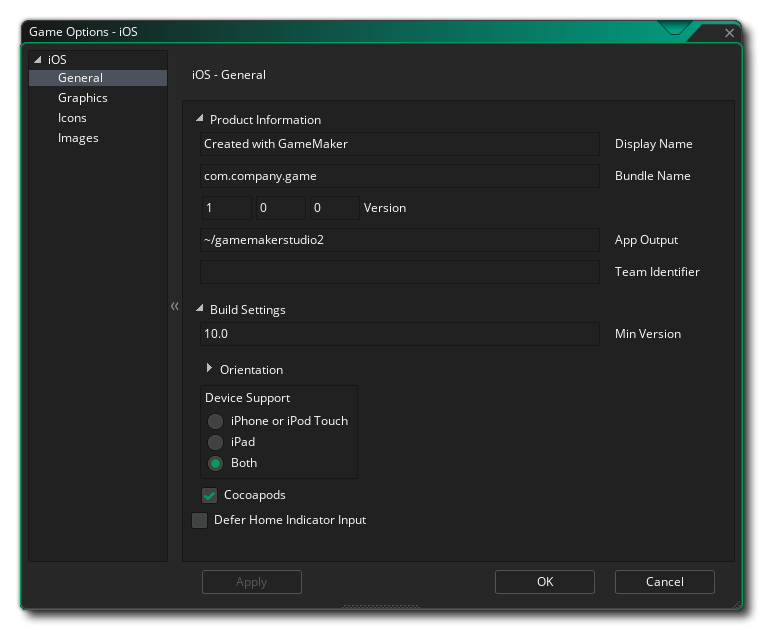
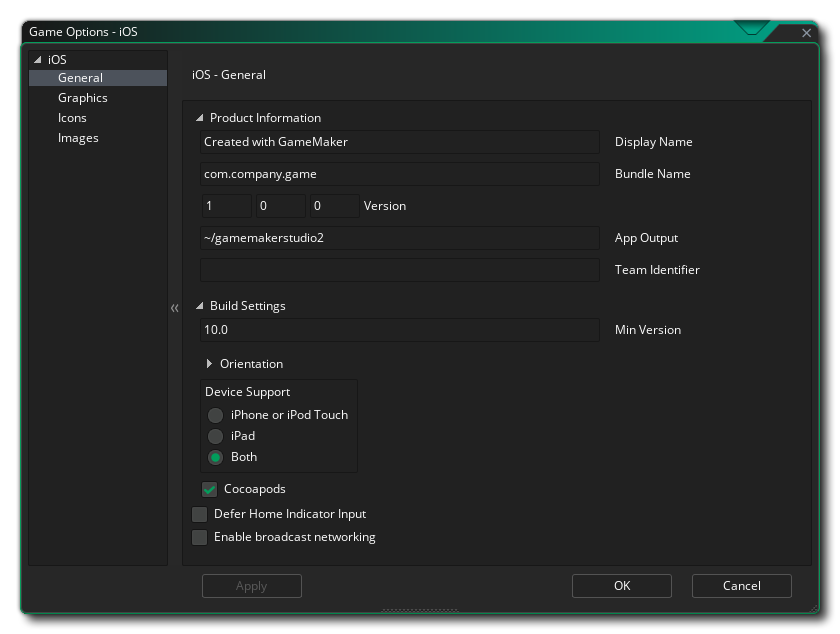
[Feature][iOS/tvOS] Add multicast entitlement when broadcasts are used YoYoGames/GameMaker-Bugs#2027 * Updated screenshot on iOS Game Options page, added new option & description * Changed RH snippet to explain the change

diff --git a/Manual/contents/Settings/Game_Options/iOS.htm b/Manual/contents/Settings/Game_Options/iOS.htm
@@ -4,7 +4,7 @@
 <head>
   <meta http-equiv="Content-Type" content="text/html; charset=utf-8" />
   <title>iOS</title>
-  <meta name="generator" content="Adobe RoboHelp 2020" />
+  <meta name="generator" content="Adobe RoboHelp 2022" />
   <link rel="stylesheet" href="../../assets/css/default.css" type="text/css" />
   <script src="../../assets/scripts/main_script.js" type="module"></script>
   <meta name="rh-authors" content="Mark Alexander" />
@@ -42,8 +42,8 @@
     <li><a href="https://help.yoyogames.com/hc/en-us/articles/360008958858">iOS and tvOS: Using Cocoa Pods</a></li>
   </ul>
   <div data-conref="../../assets/snippets/Note_important_CocoaPods.hts"> </div>
-  <p>Finally, you can check or un-check the option to <strong>Defer Home Indicator Output</strong>. When this is checked, the home bar will always be shown at a low alpha, and the first swipe wakes the bar and the second swipe takes you home. If the option is un-checked, then the bar is not shown in-game, but the first edge swipe will take you home. Default is un-checked.</p>
-  <p> </p>
+  <p>You can check or uncheck the option to <strong>Defer Home Indicator Output</strong>. When this is checked, the home bar will always be shown at a low alpha, and the first swipe wakes the bar and the second swipe takes you home. If the option is unchecked, then the bar is not shown in-game, but the first edge swipe will take you home. Default is unchecked.</p>
+  <p>Lastly, you can <strong id="enable_broadcast_networking">Enable broadcast networking</strong>. When enabled, <span data-keyref="GameMaker Name">GameMaker</span> will add the multicast entitlement (<a href="https://developer.apple.com/documentation/bundleresources/entitlements/com_apple_developer_networking_multicast">com.apple.developer.networking.multicast</a>) to broadcast or multicast messages that you send in your game.</p>
   <h2>Graphics</h2>
   <p><img alt="iOS Graphics Options" class="center" src="../../assets/Images/Settings/iOS_Graphics_Options.png" />Here you can change the following details related to how your game will be displayed, with the following options available:</p>
   <ul class="colour">

diff --git a/Manual/contents/GameMaker_Language/GML_Reference/Networking/network_send_broadcast.htm b/Manual/contents/GameMaker_Language/GML_Reference/Networking/network_send_broadcast.htm
@@ -31,29 +31,29 @@
       </tr>
       <tr>
         <td>socket</td>
-        <td><span data-keyref="Type_ID_Network_Socket"><a href="../../../../GameMaker_Language/GML_Reference/Networking/network_create_socket.htm" target="_blank">Network Socket ID</a></span></td>
+        <td><span data-keyref="Type_ID_Network_Socket"><a href="network_create_socket.htm" target="_blank">Network Socket ID</a></span></td>
         <td>The id of the socket to use.</td>
       </tr>
       <tr>
         <td>port</td>
-        <td><span data-keyref="Type_Real"><a href="../../../../GameMaker_Language/GML_Overview/Data_Types.htm" target="_blank">Real</a></span></td>
+        <td><span data-keyref="Type_Real"><a href="../../GML_Overview/Data_Types.htm" target="_blank">Real</a></span></td>
         <td>The port that the server will use.</td>
       </tr>
       <tr>
         <td>bufferid</td>
-        <td><span data-keyref="Type_ID_Buffer"><a href="../../../../GameMaker_Language/GML_Reference/Buffers/buffer_create.htm" target="_blank">Buffer</a></span></td>
+        <td><span data-keyref="Type_ID_Buffer"><a href="../Buffers/buffer_create.htm" target="_blank">Buffer</a></span></td>
         <td>The buffer to get the data from.</td>
       </tr>
       <tr>
         <td>size</td>
-        <td><span data-keyref="Type_Real"><a href="../../../../GameMaker_Language/GML_Overview/Data_Types.htm" target="_blank">Real</a></span></td>
+        <td><span data-keyref="Type_Real"><a href="../../GML_Overview/Data_Types.htm" target="_blank">Real</a></span></td>
         <td>The size (in bytes) of the data.</td>
       </tr>
     </tbody>
   </table>
   <p> </p>
   <h4>Returns:</h4>
-  <p class="code"><span data-keyref="Type_Real"><a href="../../../../GameMaker_Language/GML_Overview/Data_Types.htm" target="_blank">Real</a></span></p>
+  <p class="code"><span data-keyref="Type_Real"><a href="../../GML_Overview/Data_Types.htm" target="_blank">Real</a></span></p>
   <p> </p>
   <h4>Example:</h4>
   <p class="code">buffer_seek(broadcast_buffer, buffer_seek_start, 0);<br />

diff --git a/Manual/contents/GameMaker_Language/GML_Reference/Networking/network_create_socket.htm b/Manual/contents/GameMaker_Language/GML_Reference/Networking/network_create_socket.htm
@@ -34,14 +34,14 @@
       </tr>
       <tr>
         <td>type</td>
-        <td><span data-keyref="Type_Constant_Network_Socket_Type"><a href="../../../../GameMaker_Language/GML_Reference/Networking/network_create_socket.htm" target="_blank">Socket Type Constant</a></span></td>
+        <td><span data-keyref="Type_Constant_Network_Socket_Type"><a href="network_create_socket.htm" target="_blank">Socket Type Constant</a></span></td>
         <td>The type of socket connection to create (see the constants listed above).</td>
       </tr>
     </tbody>
   </table>
   <p> </p>
   <h4>Returns:</h4>
-  <p class="code"><span data-keyref="Type_ID_Network_Socket"><a href="../../../../GameMaker_Language/GML_Reference/Networking/network_create_socket.htm" target="_blank">Network Socket ID</a></span></p>
+  <p class="code"><span data-keyref="Type_ID_Network_Socket"><a href="network_create_socket.htm" target="_blank">Network Socket ID</a></span></p>
   <p> </p>
   <h4>Example:</h4>
   <p class="code">if os_browser == browser_not_a_browser<br />
